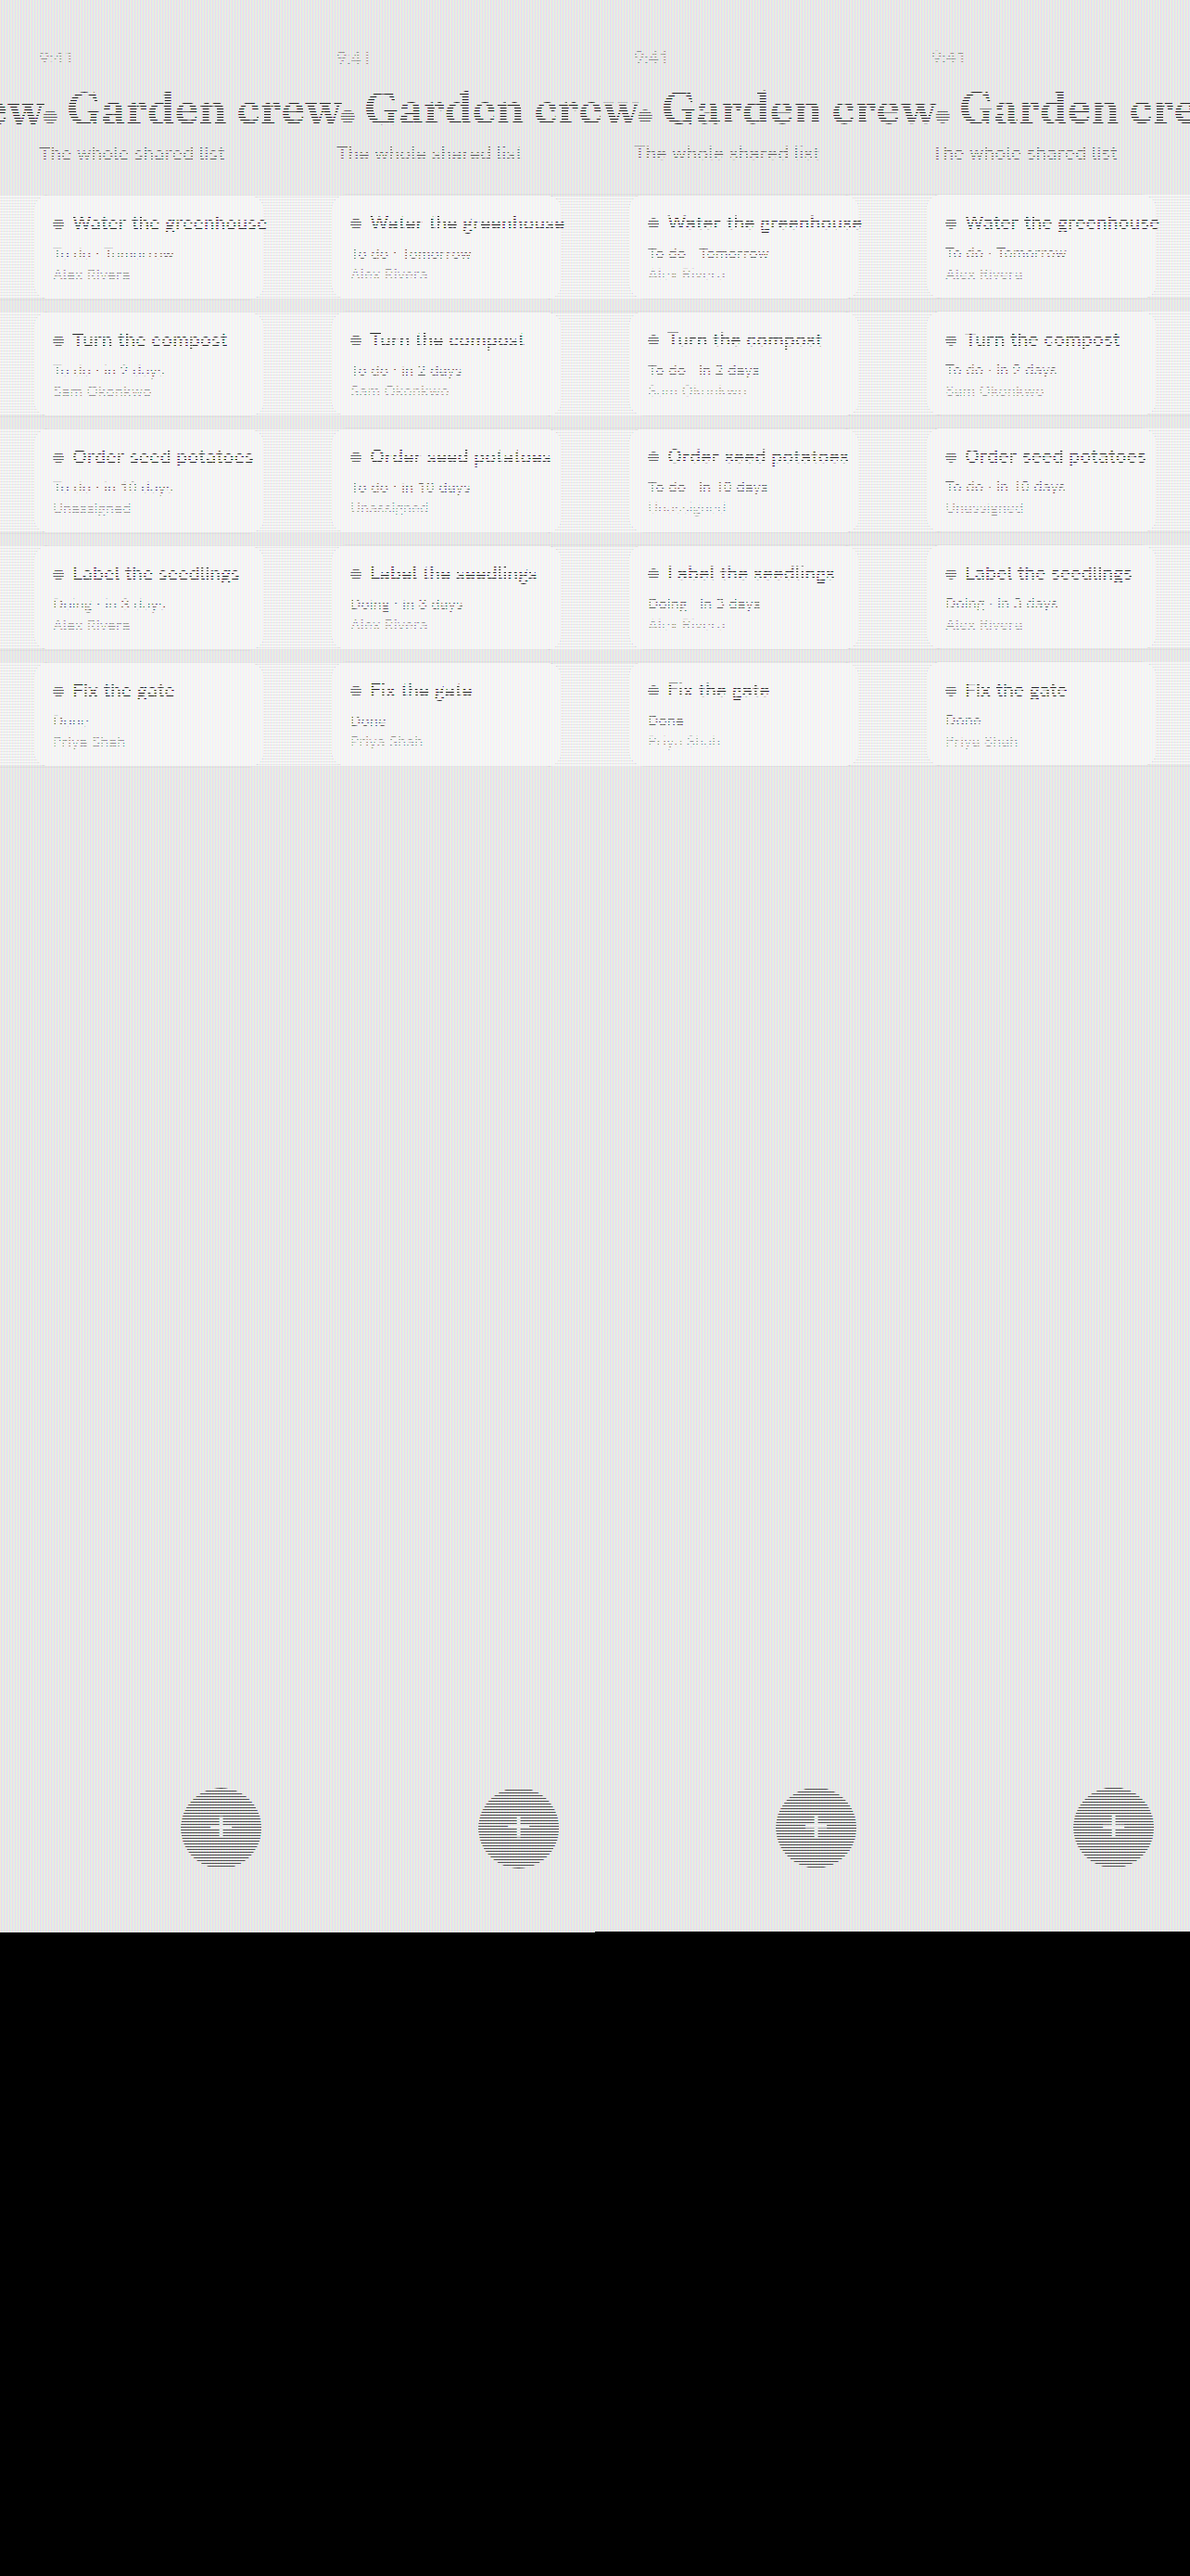
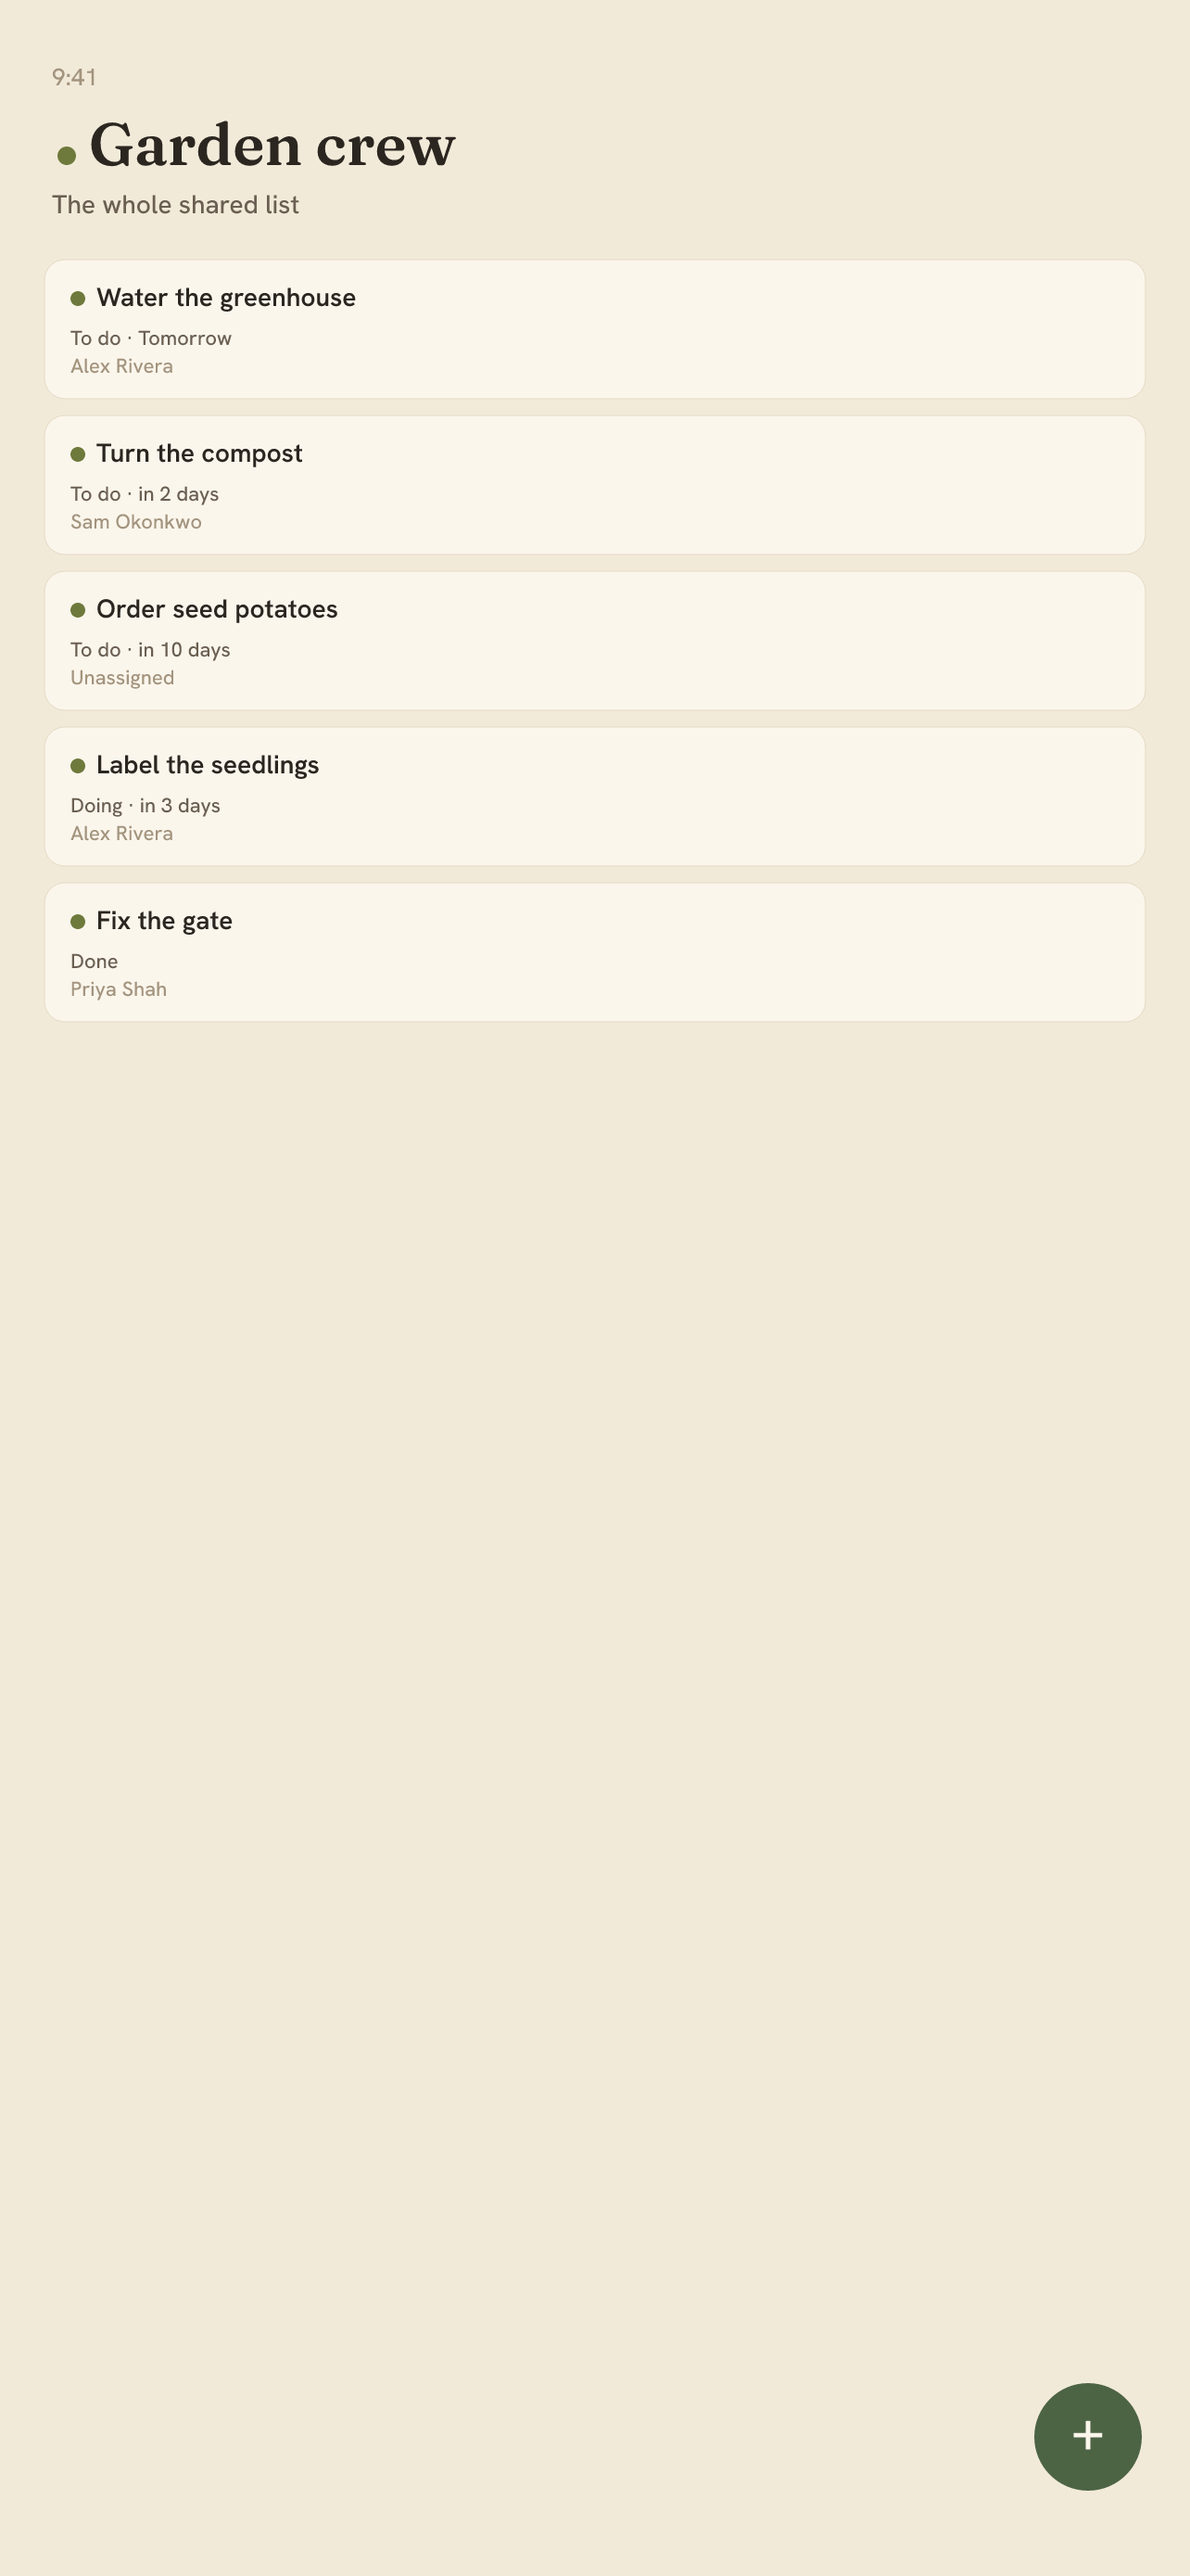
Fix garbled store screenshots and refresh listing copy
- render-store-screenshots: pngjs keeps pixel data as RGBA even when it
  writes colorType 2, so filling 3 bytes per pixel produced tiled, striped
  PNGs with a black band. Fill RGBA and re-render every set.
- Replace the Choir example circle with Community (screenshots, keywords,
  description, new-circle placeholder) and show both tasks on the third
  phone screenshot.
- listing.md: full app name, hosted support/marketing/privacy URLs, copyright.

diff --git a/src/app/space-new.tsx b/src/app/space-new.tsx
@@ -45,7 +45,7 @@ export default function NewSpace() {
           label="Name"
           value={name}
           onChangeText={setName}
-          placeholder="Home, Garden, Choir..."
+          placeholder="Home, Garden, Community..."
           autoFocus
           autoCapitalize="words"
           returnKeyType="done"

diff --git a/store/listing.md b/store/listing.md
@@ -4,7 +4,7 @@ Same copy for the iOS App Store and the Mac App Store. The Mac product is this i
 
 ## Name
 
-Trove
+Trove: Shared Lists
 
 ## Subtitle
 
@@ -16,7 +16,7 @@ Your circles each have a list. None of them show you only what is yours. Trove k
 
 ## Description
 
-The work of a household, a garden crew, a choir, or a side project never lives in one place. It is split across chats and shared boards, and the part that is actually yours is mixed in with everyone else's.
+The work of a household, a garden crew, a community project, or a side project never lives in one place. It is split across chats and shared boards, and the part that is actually yours is mixed in with everyone else's.
 
 Trove is a shared list for each circle you belong to. Everyone in the circle sees the whole list. Mine is the other view: every task assigned to you, from every circle, on one screen. Join a circle and that view is already there.
 
@@ -24,7 +24,7 @@ A private Personal circle comes with your account. Hand a task to someone else w
 
 ## Keywords
 
-shared list,circles,household,chores,assigned,personal,family,choir,crew,todo
+shared list,circles,household,chores,assigned,personal,family,community,crew,todo
 
 ## What's new
 
@@ -36,9 +36,19 @@ Primary: Productivity. Secondary: Lifestyle.
 
 ## Support URL
 
-https://github.com/the-react-native-rewind/trove-app
+https://trove-website-sooty.vercel.app/support
 
-Replace this if you host a support page. A privacy policy URL is required before submission. Host `privacy-policy.md` and put that URL in App Store Connect. This repo does not publish it for you.
+## Marketing URL
+
+https://trove-website-sooty.vercel.app
+
+## Privacy policy URL
+
+https://trove-website-sooty.vercel.app/privacy
+
+## Copyright
+
+2026 The React Native Rewind SL
 
 ## Age rating and privacy
 
